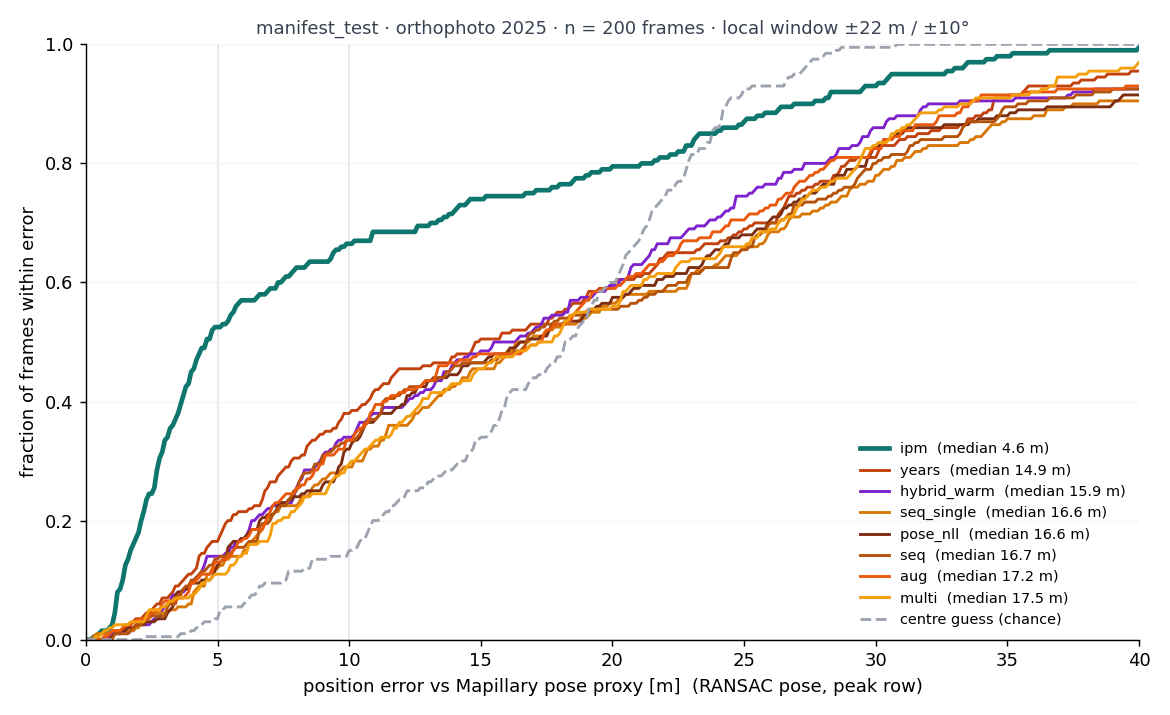
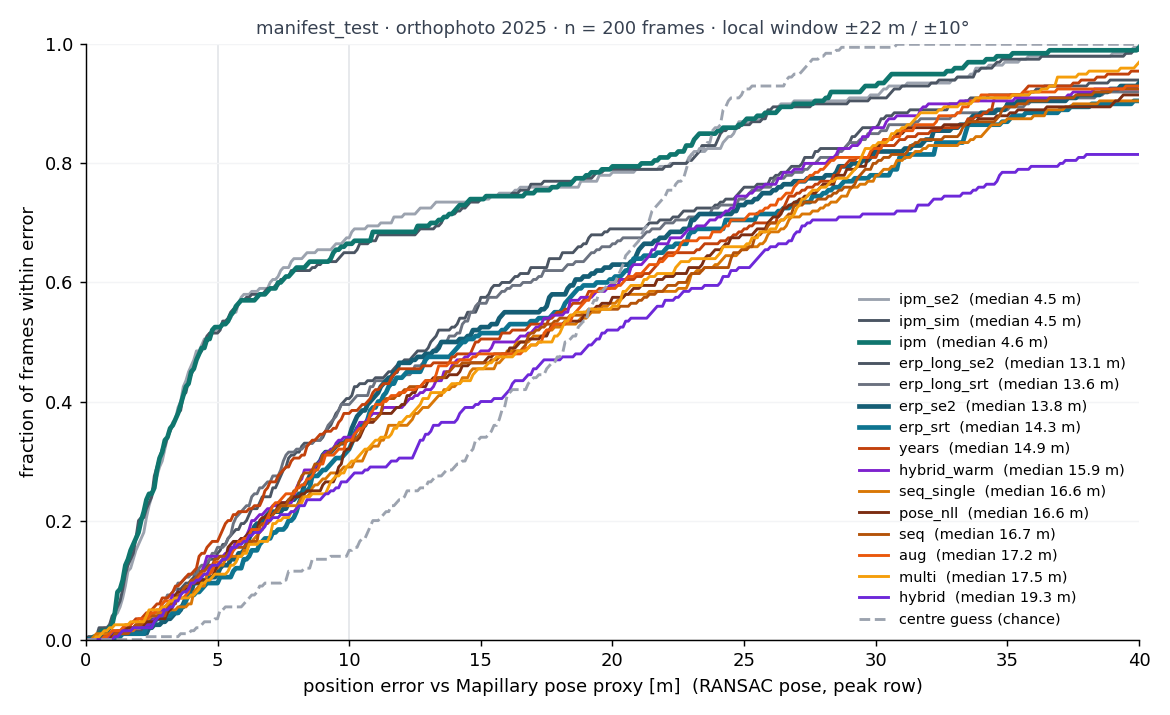
Report: 10k-step ERP-token query still at 13.6 m on the test route; open decisions on a query-side head

diff --git a/docs/decisions.md b/docs/decisions.md
@@ -72,4 +72,5 @@
 - 2026-09-23 — The "published" solver in every table so far is an 8-DoF homography, not sRT. Checked in `sat-roma-infer`: with `refine=False` (the paper configuration) `pipeline.estimate_homography(model="sRT")` returns the `cv2.findHomography` RANSAC init unchanged; the `model` argument only steers the disabled LM refinement. Visible in the overlays as sheared RANSAC boxes on the miss frames. Consequence: the H7 comparison (homography vs fixed-scale SE(2)) has never actually been run in this repo. `matcher.solver` now has three values: `srt` (package default = homography, kept as the reference row), `sim` (4-DoF similarity RANSAC via `ransac_init(estimator="similarity")`), `se2` (3-DoF, `bevloc.match.se2`). All three are evaluated on the IPM and ERP queries on both manifests before any of them becomes the default.
 - 2026-09-24 — H7 (fixed-scale SE(2) beats homography) is not supported on the `ipm` query: homography / similarity / SE(2) give 4.6 / 4.5 / 4.5 m median on the test route with overlapping intervals and the same >30 m tail. `matcher.solver: srt` stays the default (reference row = published package configuration); `sim` and `se2` remain selectable. Kick-off §3.3's 49-vs-567-trials argument is about cost, not accuracy, and cost is not the bottleneck.
 - 2026-09-24 — Task 3 (hybrid: dense IPM *features* + learned above-horizon splat) fails its gate: from scratch it is at chance on the test route (19.3 m), warm-started it inherits the lift's 15.9 m. Task 6 (ERP-token query, decoder-only fine-tune, 3000 steps) lands at 14.3 m, no better than the lifts. Both place ground-view *tokens*; the `ipm` query places ground-view *pixels* and encodes the resulting overhead-looking picture (4.6 m). Working rule from now on: the frozen `sat493m` encoder must see an overhead-looking image; feature-level placement needs a trained cross-view head, which is a separate design decision.
+- OPEN (2026-09-24): (6) ERP-token query with a trained query-side projection head (Loc² §3.1 style: a few conv layers + self-attention on the frozen `sat493m` tokens) instead of the decoder-only fine-tune that failed in Task 6 — a new trainable module, so a design decision; (7) whether the camera-only method of record is now "IPM picture + Sat-RoMa" with the paper's contribution moving to the reference side and the filter, given that every feature-level lift lost to it.
 - OPEN (not yet agreed): (1) patch-validity threshold for the matcher mask — proposed 0.5 primary with 0.25/0.75/no-mask sensitivity (package default 1.0 leaves a median of 10/196 patches); (2) single-frame vs short-mosaic query for H1 — proposed both; (3) wall-edge clutter from trees/poles — proposed LiDAR planarity filter (+ multi-frame vote in mosaics); (4) RANSAC input: published config (one peak per patch) vs distinct GMM means — proposed report both; (5) ambient-image↔ERP PnP cross-check of the camera←LiDAR extrinsic.

diff --git a/experiments/05_lift_splat/REPORT.md b/experiments/05_lift_splat/REPORT.md
@@ -140,6 +140,13 @@ Sources: eval_aug_manifest.json, eval_aug_manifest_test.json, eval_erp_long_se2_
 
 ## Verdict (running notes; newest first)
 
+**2026-09-24, ERP-token query, 10 000 steps (`erp_long`).** Validation 12.3 m [10.6, 14.4], R@5 0.20;
+test 13.6 m [11.4, 15.0], R@5 0.15, >30 m 0.15 (2024: 11.8 m, R@5 0.21); SE(2) solver identical
+within noise. Tripling the schedule moved the test median by 0.7 m. Schedule is not the explanation;
+the decoder-only fine-tune cannot turn ground-view tokens into overhead-matchable ones. Task 6's gate
+fails as specified. A Loc²-style query-side projection head (trained, on top of the frozen encoder)
+is the remaining variant of this idea and is a design decision (OPEN in docs/decisions.md).
+
 **2026-09-24, ERP-token query (Task 6), 3000 steps.** Validation 13.5 m [10.6, 17.4], R@5 0.14;
 test 14.3 m [11.7, 18.3], R@5 0.10, >30 m 0.22, 192/200 matched. Same band as the lifted queries,
 three times worse than `ipm`. With the decoder fine-tuned alone (no query-side head), the ground-view

diff --git a/experiments/05_lift_splat/VERDICT.md b/experiments/05_lift_splat/VERDICT.md
@@ -1,5 +1,12 @@
 ## Verdict (running notes; newest first)
 
+**2026-09-24, ERP-token query, 10 000 steps (`erp_long`).** Validation 12.3 m [10.6, 14.4], R@5 0.20;
+test 13.6 m [11.4, 15.0], R@5 0.15, >30 m 0.15 (2024: 11.8 m, R@5 0.21); SE(2) solver identical
+within noise. Tripling the schedule moved the test median by 0.7 m. Schedule is not the explanation;
+the decoder-only fine-tune cannot turn ground-view tokens into overhead-matchable ones. Task 6's gate
+fails as specified. A Loc²-style query-side projection head (trained, on top of the frozen encoder)
+is the remaining variant of this idea and is a design decision (OPEN in docs/decisions.md).
+
 **2026-09-24, ERP-token query (Task 6), 3000 steps.** Validation 13.5 m [10.6, 17.4], R@5 0.14;
 test 14.3 m [11.7, 18.3], R@5 0.10, >30 m 0.22, 192/200 matched. Same band as the lifted queries,
 three times worse than `ipm`. With the decoder fine-tuned alone (no query-side head), the ground-view
